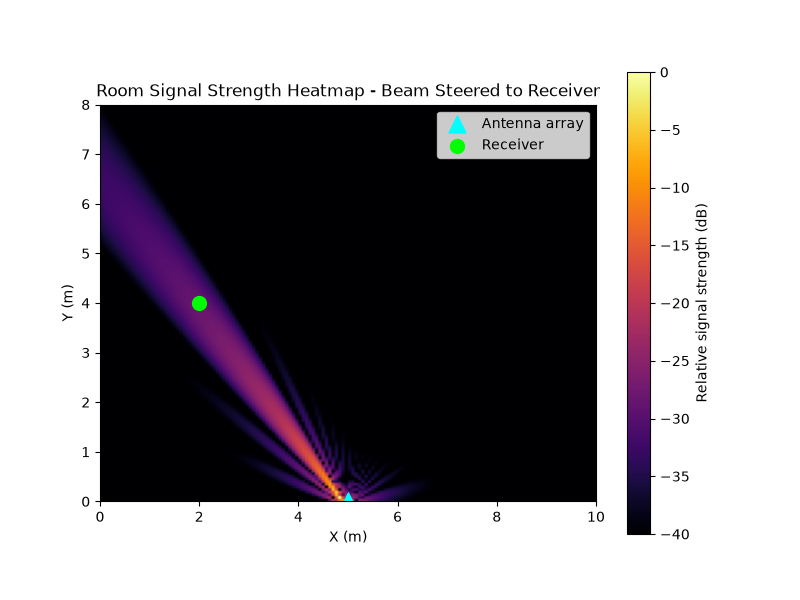
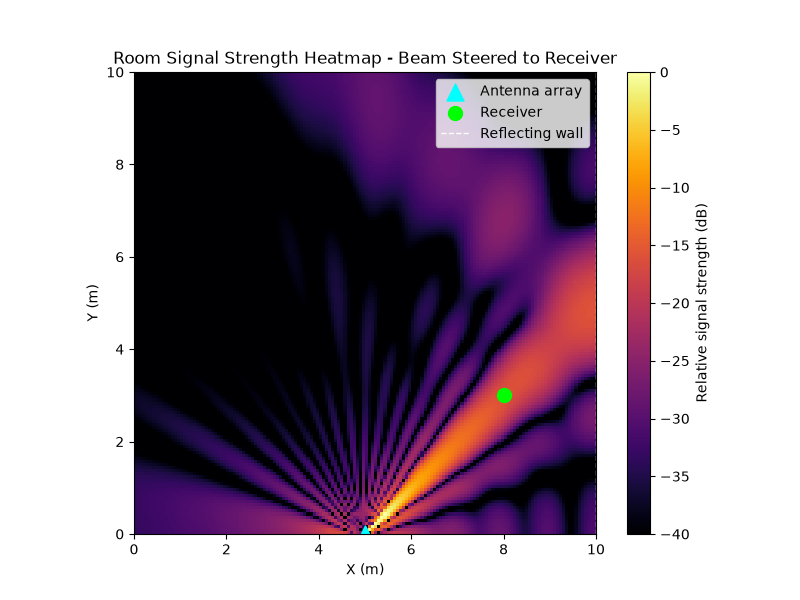
Implemented wall reflections

diff --git a/phase2_room.py b/phase2_room.py
@@ -13,7 +13,7 @@ def steering_vector(angle_rad, spacing, wavelength, antenna_indicies):
 # Room setup
 # Array is centered at origin, facing "up" (+y direction), broadside at 0 degrees
 room_width = 10 # meters, x-axis
-room_height = 8 # meters, y-axis (array sits at y=0, room extends upward)
+room_height = 10 # meters, y-axis (array sits at y=0, room extends upward)
 
 array_position = np.array([room_width / 2, 0.0])
 
@@ -28,15 +28,29 @@ def angle_and_distance(array_pos, point):
 
 def free_space_path_loss(distance, wavelength):
     """Simplified free-space path loss (Friis-like, normalized)."""
-    distance = np.maximum(distance, 0.1) # avoid divide-by-zero near the array
+    distance = np.maximum(distance, 0.7) # avoid divide-by-zero near the array
     return (wavelength / (4 * np.pi * distance)) ** 2
 
-# Place a receiver and steer towards it
-receiver_pos = np.array([2.0, 4.0])
+
+receiver_pos = np.array([8.0, 3.0])
 receiver_angle, receiver_distance = angle_and_distance(array_position, receiver_pos)
 weights = steering_vector(receiver_angle, spacing, wavelength, antenna_indicies)
 
 print(f"Receiver at {receiver_pos}: angle = {np.degrees(receiver_angle):.1f} deg, distance = {receiver_distance:.2f} m")
+
+# --- Wall and reflection setup ---
+wall_x = room_width # right wall of the room, at x = room_width
+reflection_coefficient = 0.6 # fraction of amplitutd that survives the bounce
+
+def field_contribution(source_pos, weights, point, spacing, wavelength, antenna_indicies):
+    """Complex field at 'point' from an array at 'source_pos' using given weights.
+    Includes array gain and propagation phase (needed for coherent multipath sum)."""
+    angle, dist = angle_and_distance(source_pos, point)
+    a_point = steering_vector(angle, spacing, wavelength, antenna_indicies)
+    array_response = np.conj(weights) @ a_point
+    path_loss_amplitude = np.sqrt(free_space_path_loss(dist, wavelength))
+    propagation_phase = np.exp(-1j * 2 * np.pi * dist / wavelength)
+    return array_response * path_loss_amplitude * propagation_phase
 
 # Build a heatmap of received signal strength across the whole room
 x_vals = np.linspace(0.1, room_width, 150)
@@ -46,11 +60,20 @@ signal_map = np.zeros((len(y_vals), len(x_vals)))
 for i, y in enumerate(y_vals):
     for j, x in enumerate(x_vals):
         point = np.array([x, y])
-        angle, dist = angle_and_distance(array_position, point)
-        a_point = steering_vector(angle, spacing, wavelength, antenna_indicies)
-        array_gain = np.abs(np.conj(weights) @ a_point) ** 2 # beamforming gain at this point
-        path_loss = free_space_path_loss(dist, wavelength)
-        signal_map[i, j] = array_gain * path_loss
+
+        # Direct path: real array -> point
+        direct_field = field_contribution(array_position, weights, point,
+                                          spacing, wavelength, antenna_indicies)
+
+        # Reflected path: virtual (mirrored) array -> point, attenuated by wall
+        mirrored_point = np.array([2 * wall_x - x, y])
+        reflected_field = reflection_coefficient * field_contribution(
+            array_position, weights, mirrored_point,
+            spacing, wavelength, antenna_indicies)
+
+        total_field = direct_field + reflected_field
+        signal_map[i, j] = np.abs(total_field) ** 2
+        
 
 signal_map_db = 10 * np.log10(signal_map / np.max(signal_map) + 1e-12)
 
@@ -61,6 +84,7 @@ plt.imshow(signal_map_db, extent=[0, room_width, 0, room_height], origin="lower"
 plt.colorbar(label="Relative signal strength (dB)")
 plt.scatter(*array_position, color="cyan", marker="^", s=150, label="Antenna array")
 plt.scatter(*receiver_pos, color="lime", marker="o", s=100, label="Receiver")
+plt.axvline(wall_x, color="white", linestyle="--", linewidth=1, label="Reflecting wall")
 plt.xlabel("X (m)")
 plt.ylabel("Y (m)")
 plt.title("Room Signal Strength Heatmap - Beam Steered to Receiver")
